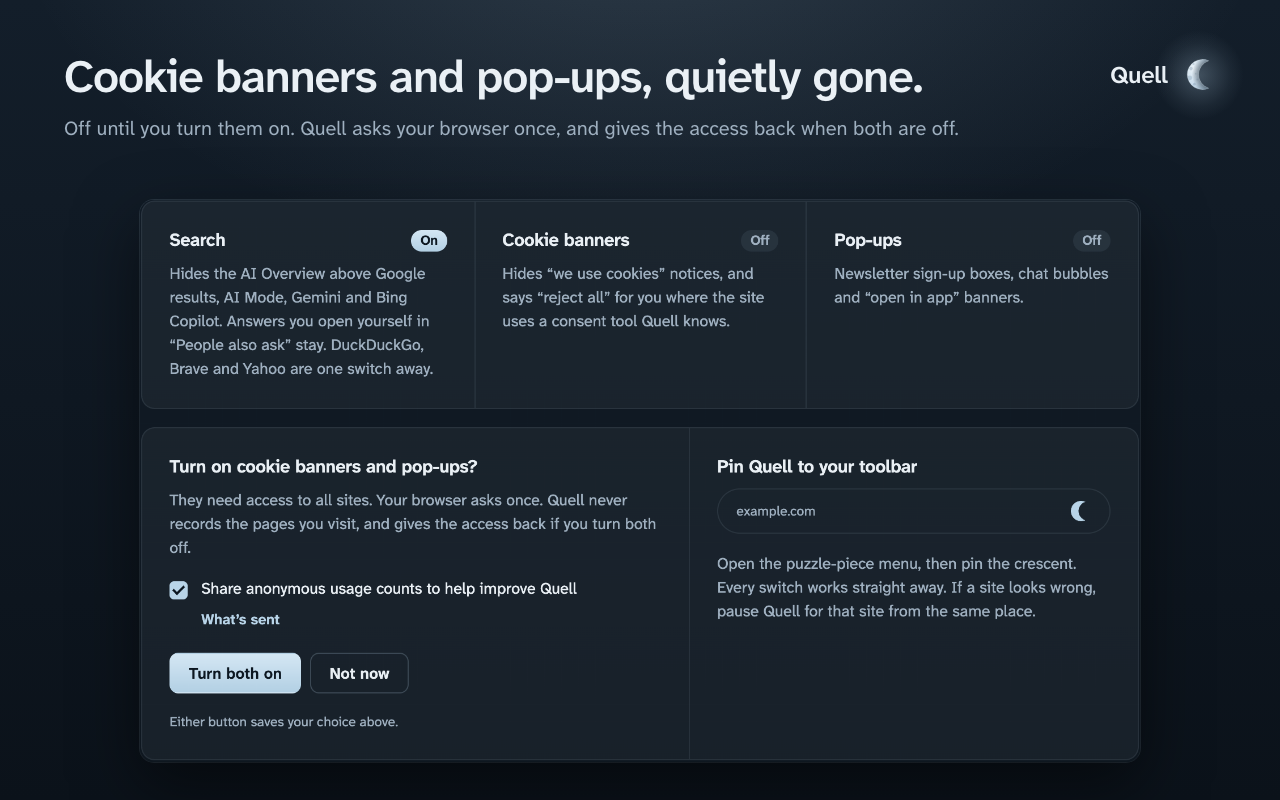
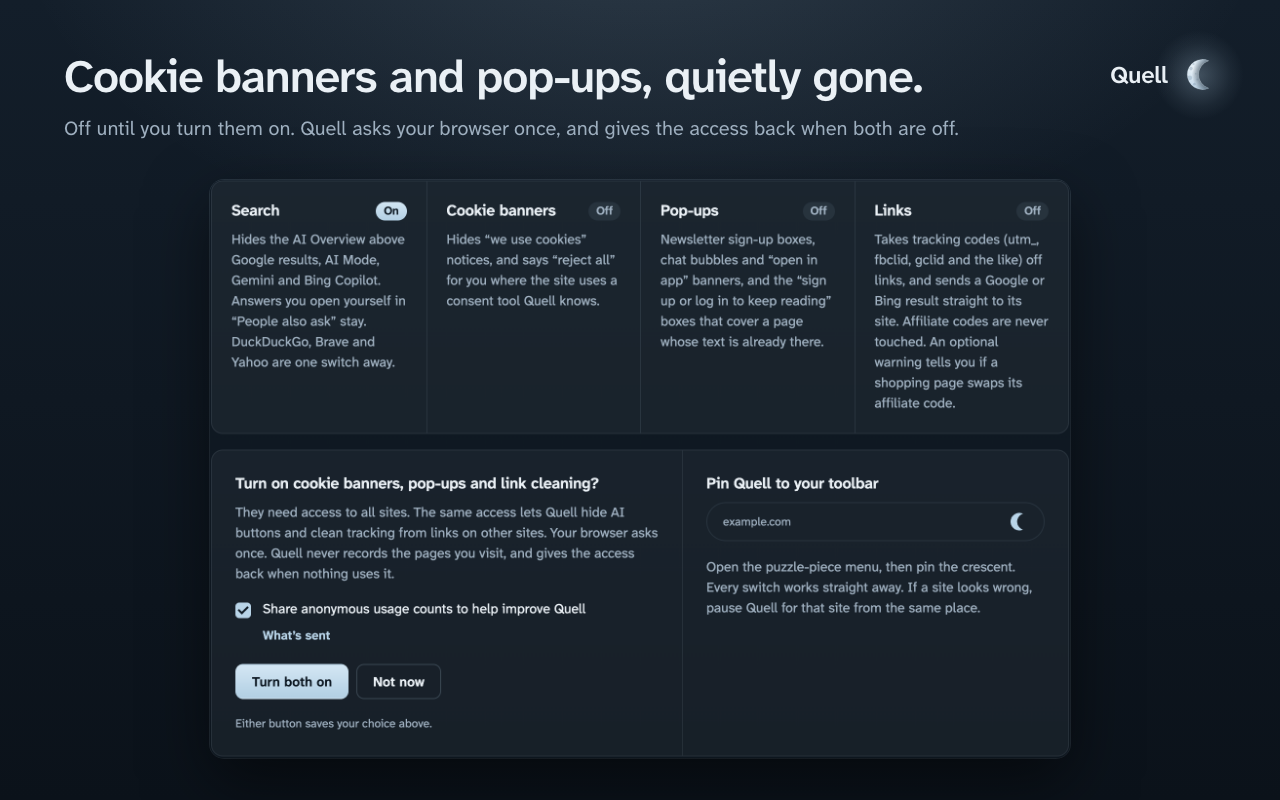
Store images regenerated for the final popup and welcome page (four feature cards, paused state covers AI on websites); shorter status lines

diff --git a/extension/src/popup/popup.js b/extension/src/popup/popup.js
@@ -369,14 +369,14 @@ function aiWebStatus(s, paused) {
   if (hid || blocked) {
     return [hid ? `Hid ${hid} here` : '', blocked ? `Blocked ${blocked} AI ${blocked === 1 ? 'script' : 'scripts'}` : ''].filter(Boolean).join(' · ');
   }
-  if (!s.aiWebAccess && (s.aiWebButtons || s.aiWebChat)) return 'Chat scripts blocked. Allow all sites to hide buttons';
+  if (!s.aiWebAccess && (s.aiWebButtons || s.aiWebChat)) return 'Buttons need all-sites access';
   return !host || !tab.reachable ? 'On for other pages' : 'Watching. Nothing to hide here';
 }
 // The Links row and the sign-up prompt line (0.7.4), kept apart from rowStatus.
 function renderLinkRows(s, paused) {
   const prompts = tab.items.filter((i) => i.kind === 'popup' && i.label === 'Sign-up prompt' && !i.kept).length;
   $('pSignupD').textContent = prompts ? `Closed ${prompts} sign-up ${prompts === 1 ? 'prompt' : 'prompts'}` : '';
-  let line = 'Asks your browser for access to all sites';
+  let line = 'Needs access to all sites';
   if (!s.enabled) line = 'Quell is off';
   else if (s.linksEnabled) {
     if (!host || tab.links === null) line = 'On for other pages';

diff --git a/extension/src/popup/popup.html b/extension/src/popup/popup.html
@@ -222,7 +222,7 @@
           <label class="rs" for="links">
             <input type="checkbox" role="switch" class="rsin" id="links" aria-describedby="linksD" />
             <svg class="gly" width="18" height="18" viewBox="26 20 80 88" aria-hidden="true"><path d="M89.3 31.41A36 36 0 1 0 89.3 96.59A34 34 0 0 1 89.3 31.41Z" stroke-width="6" stroke-linejoin="round"/></svg>
-            <span class="rt"><b id="gLinks">Remove tracking from links</b><small id="linksD">Asks your browser for access to all sites</small></span>
+            <span class="rt"><b id="gLinks">Remove tracking from links</b><small id="linksD">Needs access to all sites</small></span>
             <span class="fstate" aria-hidden="true"></span>
           </label>
           <button type="button" class="xp" id="linkExpand" aria-expanded="false" aria-controls="linkBody" aria-label="Link options"><svg class="chev" width="16" height="16" viewBox="0 0 16 16" aria-hidden="true"><path d="M4 6l4 4 4-4" fill="none" stroke="currentColor" stroke-width="1.8" stroke-linecap="round" stroke-linejoin="round"/></svg></button>

diff --git a/extension/src/welcome/welcome.css b/extension/src/welcome/welcome.css
@@ -63,9 +63,9 @@ h1 { font: 600 44px/1.1 var(--sans); letter-spacing: -.025em; margin: 24px 0 8px
 
 .card { background: var(--card); border: 1px solid var(--card-b); border-radius: 12px; }
 .notice { padding: 16px 24px; margin-bottom: 16px; display: flex; gap: 16px; align-items: center; justify-content: space-between; }
-.fcs { display: grid; grid-template-columns: repeat(3, 1fr); padding: 0; margin: 0 0 16px; list-style: none; }
+.fcs { display: grid; grid-template-columns: repeat(4, 1fr); padding: 0; margin: 0 0 16px; list-style: none; }
 .fcs .fc + .fc { border-left: 1px solid var(--line); }
-.fc { padding: 24px; }
+.fc { padding: 20px; }
 .fc h2 { margin: 0 0 8px; font: 600 16px/1.3 var(--sans); letter-spacing: -.01em; display: flex; justify-content: space-between; align-items: center; gap: 8px; }
 .fc p { margin: 0; font-size: 14px; color: var(--muted); }
 .chip { font: 600 12px/1.6 var(--sans); border-radius: 99px; padding: 0 8px; color: var(--muted); background: var(--hover); white-space: nowrap; }
